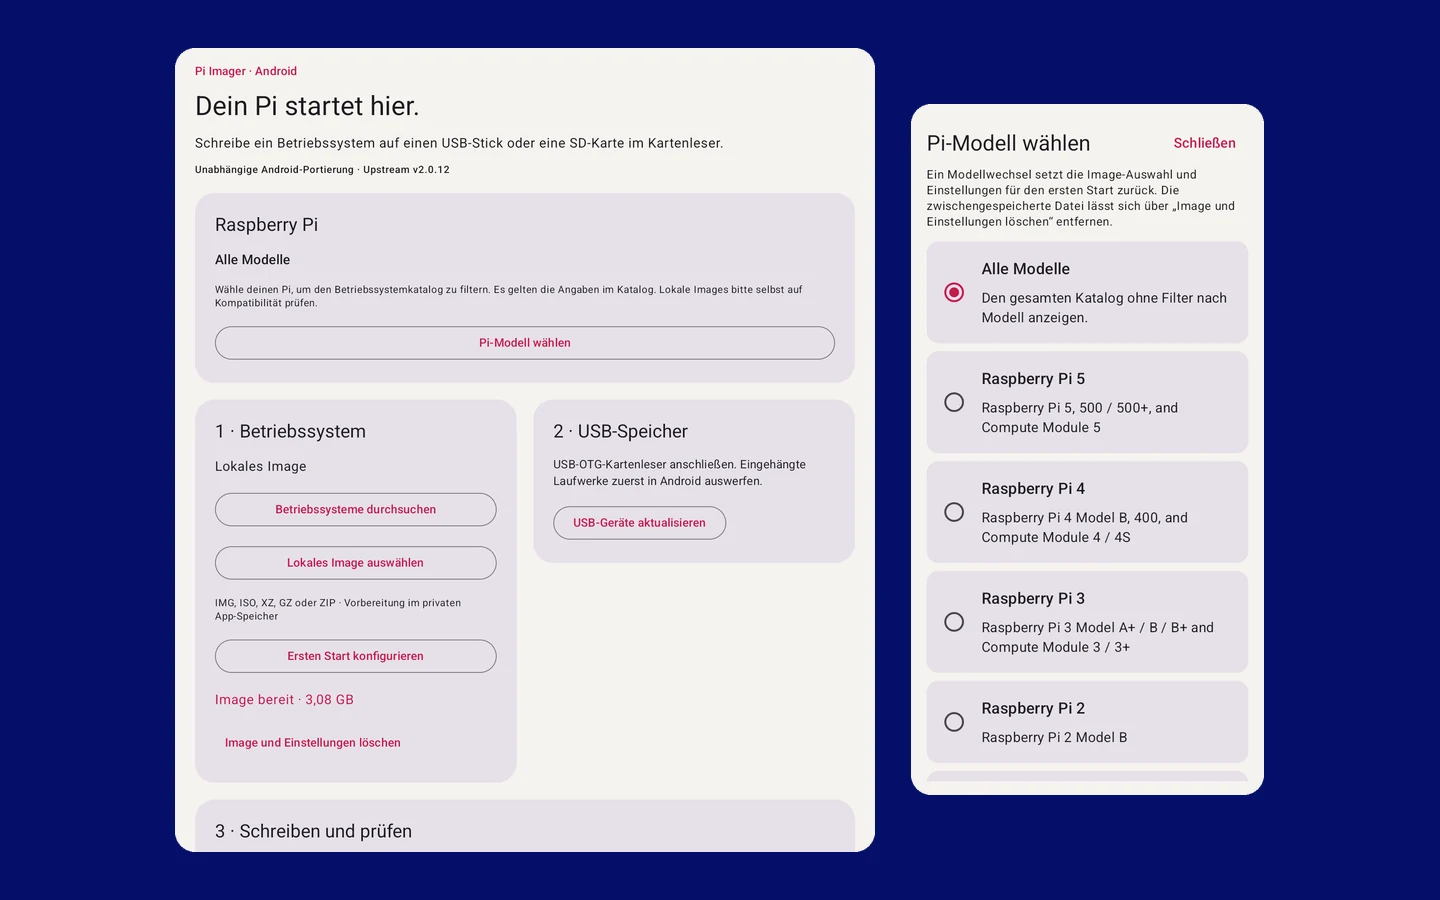
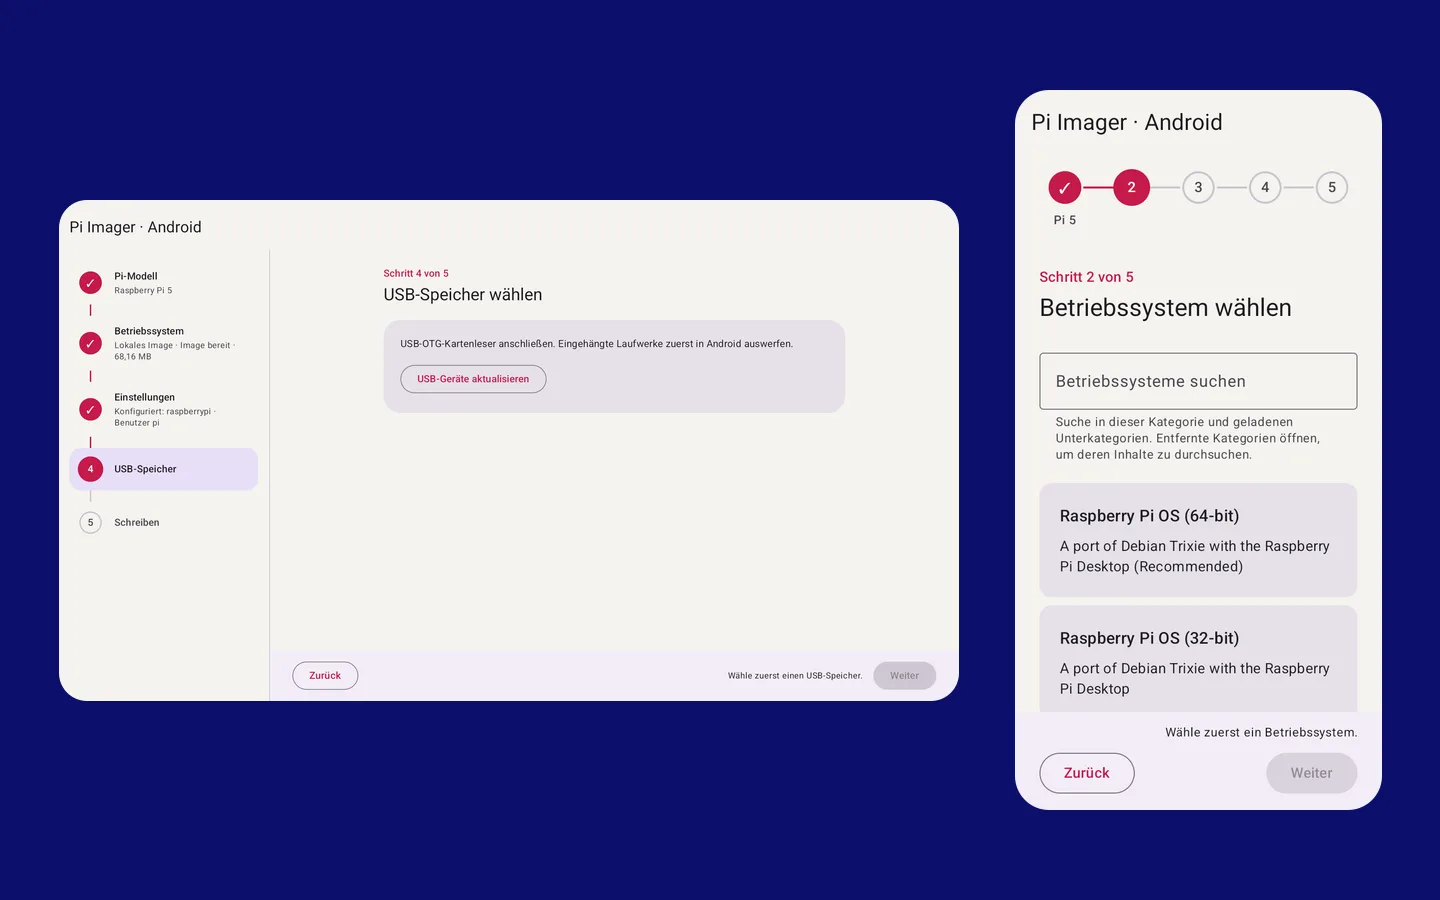
Pi Imager: neues Projektbild mit dem Schritt-Ablauf aus 0.6
Tablet mit Schrittliste und Handy mit Betriebssystemwahl, aus den
Emulator-Aufnahmen der App; Alt-Text angepasst.

diff --git a/src/lib/ownProjects.ts b/src/lib/ownProjects.ts
@@ -84,14 +84,14 @@ export const ownProjects: readonly OwnProject[] = [
         kind: "App",
         text: "Freie Android-App, die Raspberry-Pi-Images ohne PC und ohne Root über USB-OTG schreibt und jeden Sektor prüft. Unabhängiges Open-Source-Projekt, bisher auf Emulatoren geprüft.",
         cta: "Quellcode ansehen",
-        alt: "Pi Imager für Android auf Tablet und Handy, mit fertig vorbereitetem Image und Modellauswahl",
+        alt: "Pi Imager für Android auf Tablet und Handy: Schrittliste mit vorbereitetem Image und die Betriebssystemwahl nach der Modellwahl",
       },
       en: {
         title: "Pi Imager for Android",
         kind: "App",
         text: "Free Android app that writes Raspberry Pi images over USB OTG, with no PC and no root, and verifies every sector. Independent open-source project, tested on emulators so far.",
         cta: "View the source",
-        alt: "Pi Imager for Android on tablet and phone, with a prepared image and the model picker (German interface)",
+        alt: "Pi Imager for Android on tablet and phone: step list with a prepared image and the operating system step after choosing the model (German interface)",
       },
     },
   },
